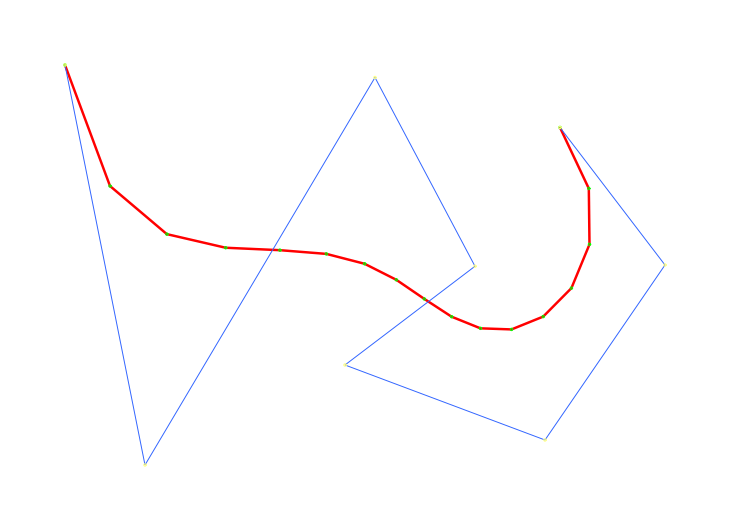
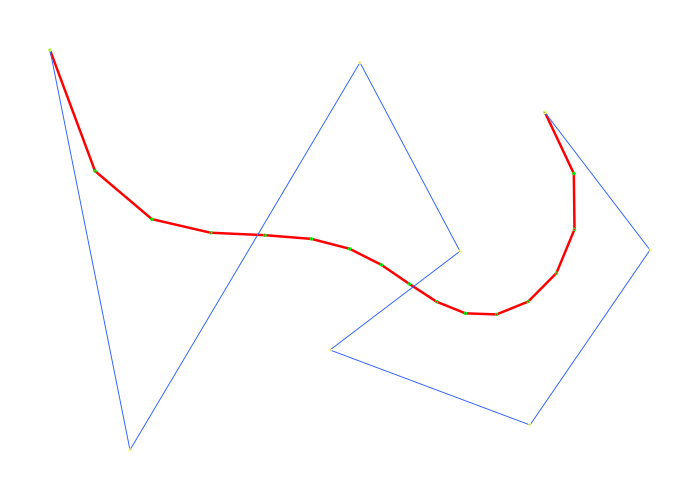
feat: add test

diff --git a/bezier.go b/bezier.go
@@ -162,20 +162,20 @@ func getPreferredDimension(corner BezierPoints) (int, int, float64, float64, flo
 
 	if dx < 400 {
 		r_x = 400.0 / dx
-		pref_x = 530
-	} else if dx > 535 {
-		pref_x = int(dx) + 130
+		pref_x = 500
+	} else if dx > 550 {
+		pref_x = int(dx) + 100
 	}
 
 	if dy < 400 {
 		r_y = 400.0 / dy
-		pref_y = 530
-	} else if dy > 535 {
-		pref_y = int(dy) + 130
+		pref_y = 500
+	} else if dy > 550 {
+		pref_y = int(dy) + 100
 	}
 
-	add_x = 65 - min_x*r_x
-	add_y = 65 - min_y*r_y
+	add_x = 50 - min_x*r_x
+	add_y = 50 - min_y*r_y
 
 	return pref_x, pref_y, r_x, r_y, add_x, add_y
 }
@@ -235,7 +235,7 @@ func main() {
 	points := BezierPoints{}
 	// points.insertLast(point1, point2, point3, point4)
 	points.insertLast(point1, point2, point3, point4, point5, point6, point7, point8)
-	curve := points.findCurve(7)
+	curve := points.findCurve(10)
 
-	drawSketch(curve, points, 7)
+	drawSketch(curve, points, 10)
 }
